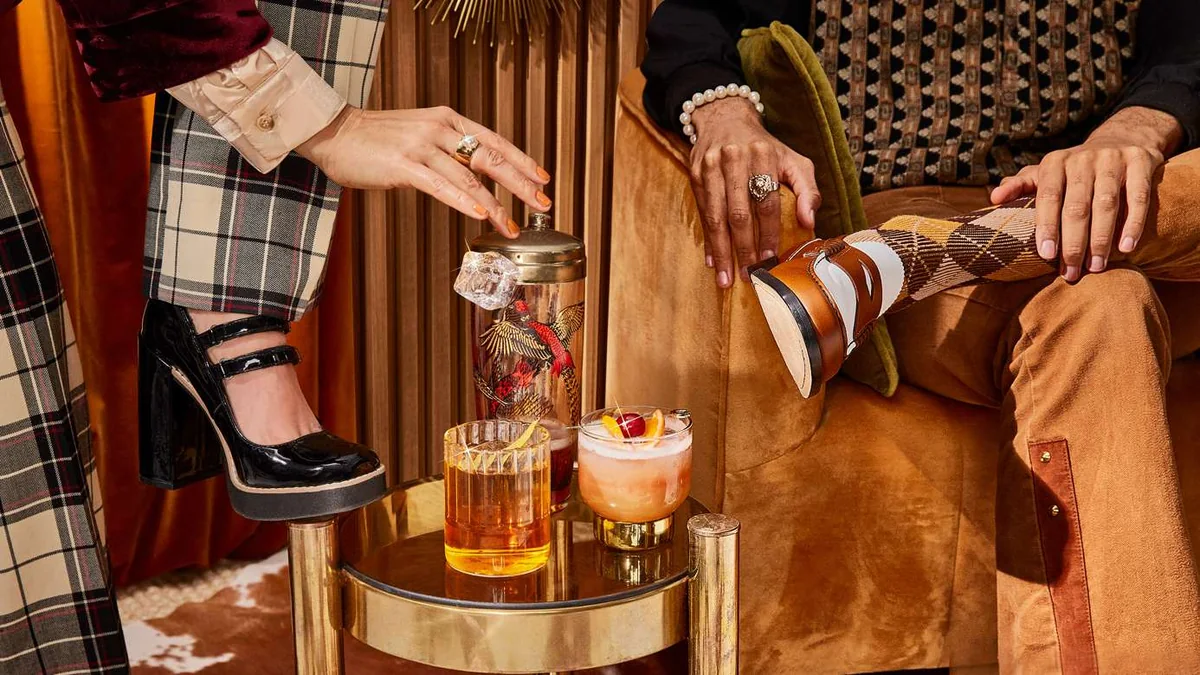
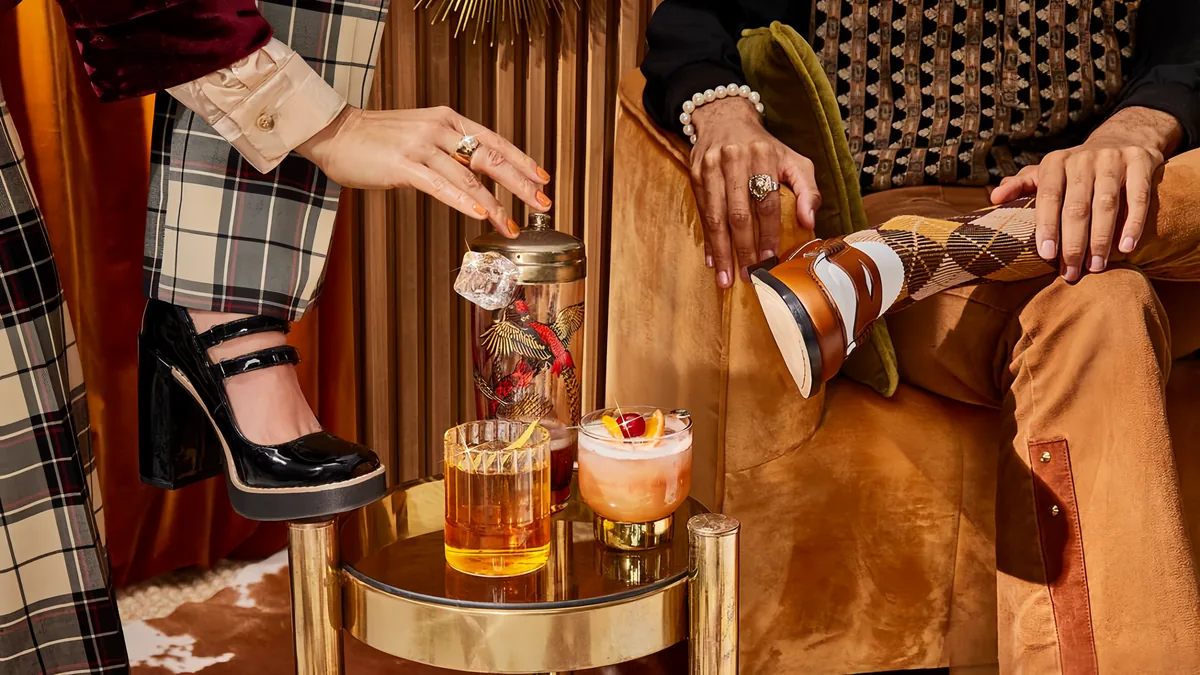
Герой пересобран с исходника 5120×2880
Заказчик прогнал прежний кадр через апскейлер и прислал его в 5120×2880
вместо 1386×780. Кадр тот же — сверка со старым файлом даёт среднее
отличие 2.4 из 255, — так что композиция не поехала и точка кадрирования
в CSS осталась прежней.

Менять один файл смысла не было: потолок srcset стоял на 1386 ровно
потому, что столько и было в исходнике, и на этом качество бы и
осталось. Лестница пересобрана целиком — 800/1200/1600/2000/2560 для
широкого кадра и 600/800/1200 для мобильного портретного кропа.
Верхняя ступень закрывает 85% от 3024 device px, которые просит окно
1512 при dpr 2, вместо прежних 46%; первый экран потяжелел на 115 КБ,
315 против 200. Мобильное окно 4:5 заново не подбиралось: оно найдено
корреляцией со старым файлом, 0.275..0.725 по ширине при полной высоте.

Предзагрузка в <head> переписана на imagesrcset. Прежняя тянула один
конкретный файл, и это работало, пока он совпадал с потолком srcset;
со ступенями фиксированный href разошёлся бы с выбором браузера, и
герой качался бы дважды. Две десктопные ветки при этом схлопнулись в
одну — разделять их больше незачем.

Проверено живьём: на 1440×900 при dpr 2 берётся 2560, на 375×812 —
mob-800, запрос в обоих случаях ровно один, у картинки transferSize
нулевой (подхватывает предзагруженный файл). 404 и ошибок консоли нет.

diff --git a/index.html b/index.html
@@ -31,9 +31,20 @@
   <link rel="preload" href="assets/fonts/roslindale-i-cyrillic.woff2" as="font" type="font/woff2" crossorigin>
   <link rel="preload" href="assets/fonts/apoc-400-cyrillic.woff2" as="font" type="font/woff2" crossorigin>
   <link rel="preload" href="assets/fonts/copperplate-400-cyrillic.woff2" as="font" type="font/woff2" crossorigin>
-  <link rel="preload" href="assets/img/hero-lounge-mob-800.webp" as="image" media="(max-width: 767px)">
-  <link rel="preload" href="assets/img/hero-lounge-1200.webp" as="image" media="(min-width: 768px) and (max-width: 1024px)">
-  <link rel="preload" href="assets/img/hero-lounge-1386.webp" as="image" media="(min-width: 1025px)">
+  <!-- ПРАВКА 08.08: предзагрузка героя переписана на imagesrcset. Раньше
+       каждая ветка тянула ОДИН файл, и это работало, только пока потолок
+       srcset совпадал с предзагруженным (1386). Теперь ступеней пять, и
+       фиксированный href разошёлся бы с тем, что выберет srcset, — кадр
+       героя скачался бы дважды. imagesrcset повторяет srcset один в один,
+       href оставлен фолбэком для браузеров, которые его не знают. -->
+  <link rel="preload" as="image" media="(max-width: 767px)"
+        href="assets/img/hero-lounge-mob-800.webp"
+        imagesrcset="assets/img/hero-lounge-mob-600.webp 600w, assets/img/hero-lounge-mob-800.webp 800w, assets/img/hero-lounge-mob-1200.webp 1200w"
+        imagesizes="100vw">
+  <link rel="preload" as="image" media="(min-width: 768px)"
+        href="assets/img/hero-lounge-1600.webp"
+        imagesrcset="assets/img/hero-lounge-800.webp 800w, assets/img/hero-lounge-1200.webp 1200w, assets/img/hero-lounge-1600.webp 1600w, assets/img/hero-lounge-2000.webp 2000w, assets/img/hero-lounge-2560.webp 2560w"
+        imagesizes="100vw">
   <link rel="stylesheet" href="assets/css/fonts.css">
   <link rel="stylesheet" href="assets/css/style.css">
 
@@ -133,24 +144,28 @@
          негрони на зелёном бархате (файлы hero-retro-*) удалён: он и так
          был вырезкой из PDF брендбука в 2188×1213, полного разрешения
          заказчик так и не прислал.
-         РАЗРЕШЕНИЕ — УЗКОЕ МЕСТО. Исходник всего 1386×780, а герой тянется
-         во всю ширину окна: на 1512 при dpr 2 нужно 3024px, то есть кадр
-         даёт 46% и на большом экране будет мягким. Апскейлить не стали —
-         детали это не добавляет. Ступень 1386 — родной размер, выше в
-         srcset не поднимаемся, чтобы браузер не растягивал файл сверх него.
+         ПРАВКА 08.08: разрешение перестало быть узким местом. Заказчик
+         прислал тот же кадр после апскейлера, 5120×2880 вместо 1386×780;
+         сверка со старым файлом даёт среднее отличие 2.4 из 255 — кадр
+         тот же, композиция не поехала, точка кадрирования в CSS прежняя.
+         Потолок лестницы поднят с 1386 до 2560: окно 1512 при dpr 2
+         просит 3024px, прежний файл закрывал 46% из них, новый — 85%.
+         Платим за это 115 КБ на первом экране (315 против 200).
          Кадр горизонтальный (1.777) — почти ровно окно; на мобильных
-         портретный кроп 4:5 (art-direction через <picture>). -->
+         портретный кроп 4:5 (art-direction через <picture>). Мобильное
+         окно не подбиралось заново: оно найдено корреляцией со старым
+         файлом — 0.275..0.725 по ширине, высота полная. -->
     <picture>
       <source media="(max-width: 767px)"
-              srcset="assets/img/hero-lounge-mob-600.webp 600w, assets/img/hero-lounge-mob-800.webp 800w"
-              sizes="100vw" width="800" height="1000">
-      <img src="assets/img/hero-lounge-1386.webp"
-           srcset="assets/img/hero-lounge-800.webp 800w, assets/img/hero-lounge-1200.webp 1200w, assets/img/hero-lounge-1386.webp 1386w"
-           sizes="100vw" width="1386" height="780"
+              srcset="assets/img/hero-lounge-mob-600.webp 600w, assets/img/hero-lounge-mob-800.webp 800w, assets/img/hero-lounge-mob-1200.webp 1200w"
+              sizes="100vw" width="1200" height="1500">
+      <img src="assets/img/hero-lounge-1600.webp"
+           srcset="assets/img/hero-lounge-800.webp 800w, assets/img/hero-lounge-1200.webp 1200w, assets/img/hero-lounge-1600.webp 1600w, assets/img/hero-lounge-2000.webp 2000w, assets/img/hero-lounge-2560.webp 2560w"
+           sizes="100vw" width="2560" height="1440"
            alt="Двое гостей в креслах и золотой столик с коктейлями между ними"
            fetchpriority="high" decoding="async">
     </picture>
-    <!-- <video autoplay muted loop playsinline poster="assets/img/hero-lounge-1386.webp">
+    <!-- <video autoplay muted loop playsinline poster="assets/img/hero-lounge-1600.webp">
            <source src="assets/video/hero-loop.mp4" type="video/mp4"></video> -->
   </div>
   <!-- Правка 30.07: янтарная строка-eyebrow «Консалтинг барных и кофейных
